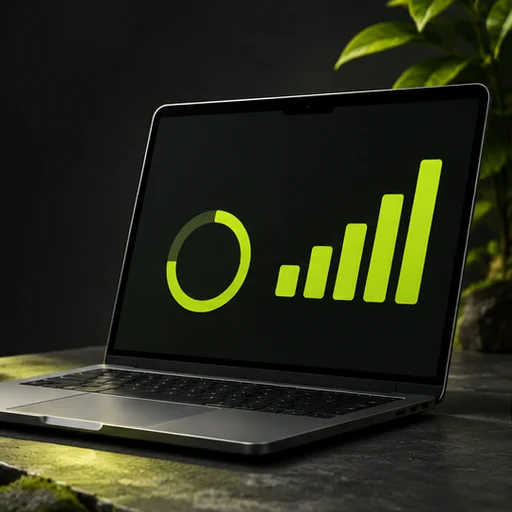
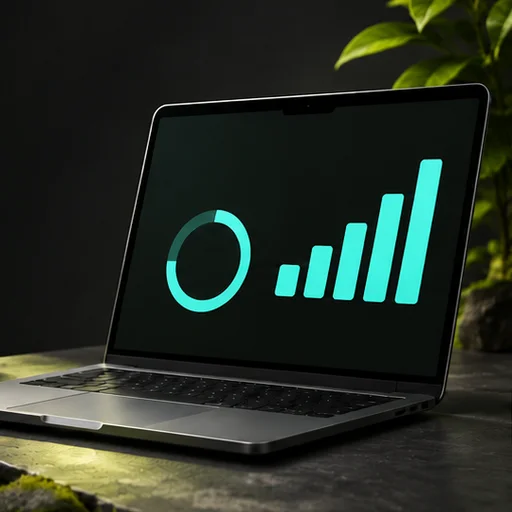
Применить бирюзовый акцент и добавить значки соцсетей

diff --git a/src/smm.css b/src/smm.css
@@ -3,41 +3,52 @@ body[data-page=smm] {
   --text: #f6f7f2;
   --muted: #c6cac4;
   --line: #d4dfd238;
-  --accent: #d1f548;
+  --accent: #58e1d2;
   --button-text: #171b13;
 }
 body[data-page=smm] .header { background: #111414; }
 body[data-page=smm] .header-cta { border-color: #f6f7f280; }
 body[data-page=smm] .wrap:not(.header-inner, .mobile-nav) { max-width: 1530px; --gutter: clamp(20px, 4vw, 62px); }
-.smm-hero { background: radial-gradient(ellipse at 75% 10%, #323b2788, transparent 55%), #111414; }
+.smm-hero { background: radial-gradient(ellipse at 75% 10%, #22403e88, transparent 55%), #111414; }
 .smm-hero-grid {
   display: grid; grid-template-columns: minmax(0, .95fr) minmax(0, 1.05fr);
   align-items: center; gap: clamp(14px, 3vw, 44px);
   padding-block: clamp(32px, 4vw, 60px) 28px;
 }
-.smm-label { color: #d1f548; font-size: 13px; font-weight: 700; letter-spacing: .1em; }
+.smm-label { color: var(--accent); font-size: 13px; font-weight: 700; letter-spacing: .1em; }
 .smm-intro h1 {
   margin: 16px 0 19px; font-size: clamp(43px, 5.4vw, 80px);
   font-weight: 700; line-height: .99; letter-spacing: -.045em; text-transform: uppercase;
 }
-.smm-intro h1 em { display: block; color: #d1f548; font: inherit; }
+.smm-intro h1 em { display: block; color: var(--accent); font: inherit; }
 .smm-lead { max-width: 43ch; color: #e2e6de; font-size: clamp(17px, 1.5vw, 21px); line-height: 1.55; margin: 0 0 25px; }
 .smm-hero .button, .smm-cta .button { border-radius: 6px; white-space: nowrap; }
-.smm-hero .button:hover, .smm-cta .button:hover { background: #e1ff77; }
+.smm-hero .button:hover, .smm-cta .button:hover { background: #83f2e5; }
 .smm-secondary {
   display: inline-flex; align-items: center; gap: 10px; padding: 11px 16px;
   border: 1px solid #f6f7f285; border-radius: 6px; color: #fff; font-size: 14px; font-weight: 700;
 }
-.smm-secondary span { color: #d1f548; }
+.smm-secondary span { color: var(--accent); }
 .smm-hero-art { position: relative; margin: 0; min-width: 0; }
 .smm-hero-art img { display: block; width: 100%; height: auto; border-radius: 18px; }
+.smm-platforms {
+  position: absolute; right: 5%; top: 21%; display: grid; gap: clamp(4px, 1vw, 11px);
+  width: 8.5%; pointer-events: none;
+}
+.smm-platform {
+  display: grid; place-items: center; aspect-ratio: 1; border: 1px solid #affaf08c;
+  border-radius: 23%; transform: skewX(-8deg);
+  color: #effffa; background: linear-gradient(145deg, #a0f0dc4d, #1c2929c7 62%, #519c9263);
+  box-shadow: inset 0 1px 2px #c6fff065, 0 4px 14px #0009;
+}
+.smm-platform svg { display: block; width: 66%; height: 66%; transform: skewX(8deg); }
 .smm-highlights {
   display: flex; flex-wrap: wrap; justify-content: space-between; gap: 12px 24px;
   margin: 0; padding: 16px 0; list-style: none; border-block: 1px solid var(--line);
   color: #e6eae1; font-size: 15px; font-weight: 600;
 }
 .smm-highlights li { display: flex; align-items: center; gap: 9px; }
-.smm-highlights li::before { content: ""; width: 7px; height: 7px; border-radius: 50%; background: #d1f548; }
+.smm-highlights li::before { content: ""; width: 7px; height: 7px; border-radius: 50%; background: var(--accent); }
 .smm-section { padding-block: clamp(31px, 3.7vw, 59px); }
 .smm-section-head { display: flex; justify-content: space-between; align-items: end; gap: 16px 32px; margin-bottom: 23px; }
 .smm-section h2 { margin: 7px 0 0; font-size: clamp(28px, 3.2vw, 46px); line-height: 1.07; font-weight: 700; letter-spacing: -.035em; text-transform: uppercase; }
@@ -49,27 +60,27 @@ body[data-page=smm] .wrap:not(.header-inner, .mobile-nav) { max-width: 1530px; -
 }
 .smm-service { display: flex; flex-direction: column; min-width: 0; overflow: hidden; }
 .smm-service-copy { flex: 1; padding: 20px 19px 13px; }
-.smm-service svg { width: 27px; height: 27px; stroke: #d1f548; stroke-width: 1.6; stroke-linecap: round; stroke-linejoin: round; fill: none; }
+.smm-service svg { width: 27px; height: 27px; stroke: var(--accent); stroke-width: 1.6; stroke-linecap: round; stroke-linejoin: round; fill: none; }
 .smm-service h3, .smm-result-grid h3 { font-size: clamp(20px, 1.9vw, 27px); margin: 9px 0; line-height: 1.14; overflow-wrap: anywhere; }
 .smm-service p, .smm-result-grid p { color: #e0e4db; font-size: 16px; line-height: 1.5; margin: 0; }
 .smm-service img { display: block; width: 100%; height: auto; aspect-ratio: 1.65; object-fit: cover; }
 .smm-stages { display: grid; grid-template-columns: repeat(5, minmax(0, 1fr)); gap: 16px; margin: 0; padding: 19px 22px; list-style: none; }
 .smm-stages li { min-width: 0; font-size: 16px; font-weight: 600; line-height: 1.4; }
-.smm-stages li span { display: block; margin-bottom: 6px; color: #d1f548; font-size: 21px; font-weight: 700; }
+.smm-stages li span { display: block; margin-bottom: 6px; color: var(--accent); font-size: 21px; font-weight: 700; }
 .smm-results { display: grid; grid-template-columns: minmax(0, .8fr) minmax(0, 2.2fr); gap: 24px; }
 .smm-result-grid article { padding: 15px 13px; }
-.smm-result-grid h3 { color: #d1f548; font-size: clamp(17px, 1.45vw, 21px); }
+.smm-result-grid h3 { color: var(--accent); font-size: clamp(17px, 1.45vw, 21px); }
 .smm-start-grid { display: grid; grid-template-columns: minmax(0, .8fr) minmax(0, 1.2fr); gap: clamp(24px, 5vw, 76px); }
 .smm-start-grid .faq-list summary { font-size: 18px; font-weight: 700; }
-.smm-start-grid .faq-list summary span { color: #d1f548; }
+.smm-start-grid .faq-list summary span { color: var(--accent); }
 .smm-start-grid .faq-list details p { font-size: 16px; line-height: 1.65; }
 .smm-cta {
   display: flex; align-items: center; justify-content: space-between; flex-wrap: wrap; gap: 18px;
-  margin-top: 36px; padding: clamp(19px, 3vw, 40px); border: 1px solid #d1f54856; border-radius: 15px;
-  background: radial-gradient(ellipse at 100% 20%, #48591e, transparent 65%), #202624;
+  margin-top: 36px; padding: clamp(19px, 3vw, 40px); border: 1px solid #58e1d256; border-radius: 15px;
+  background: radial-gradient(ellipse at 100% 20%, #23514b, transparent 65%), #202624;
 }
 .smm-cta h2 { max-width: 24ch; font-size: clamp(23px, 2.7vw, 38px); margin: 0; }
-body[data-page=smm] .contact { background: #1c211e; color: #f6f7f2; --accent: #d1f548; --muted: #c6cac4; --line: #d4dfd24a; }
+body[data-page=smm] .contact { background: #1c211e; color: #f6f7f2; --muted: #c6cac4; --line: #d4dfd24a; }
 body[data-page=smm] .contact-panel { background: #232924; }
 @media (max-width: 1050px) {
   .smm-service-grid { grid-template-columns: repeat(2, minmax(0, 1fr)); }
